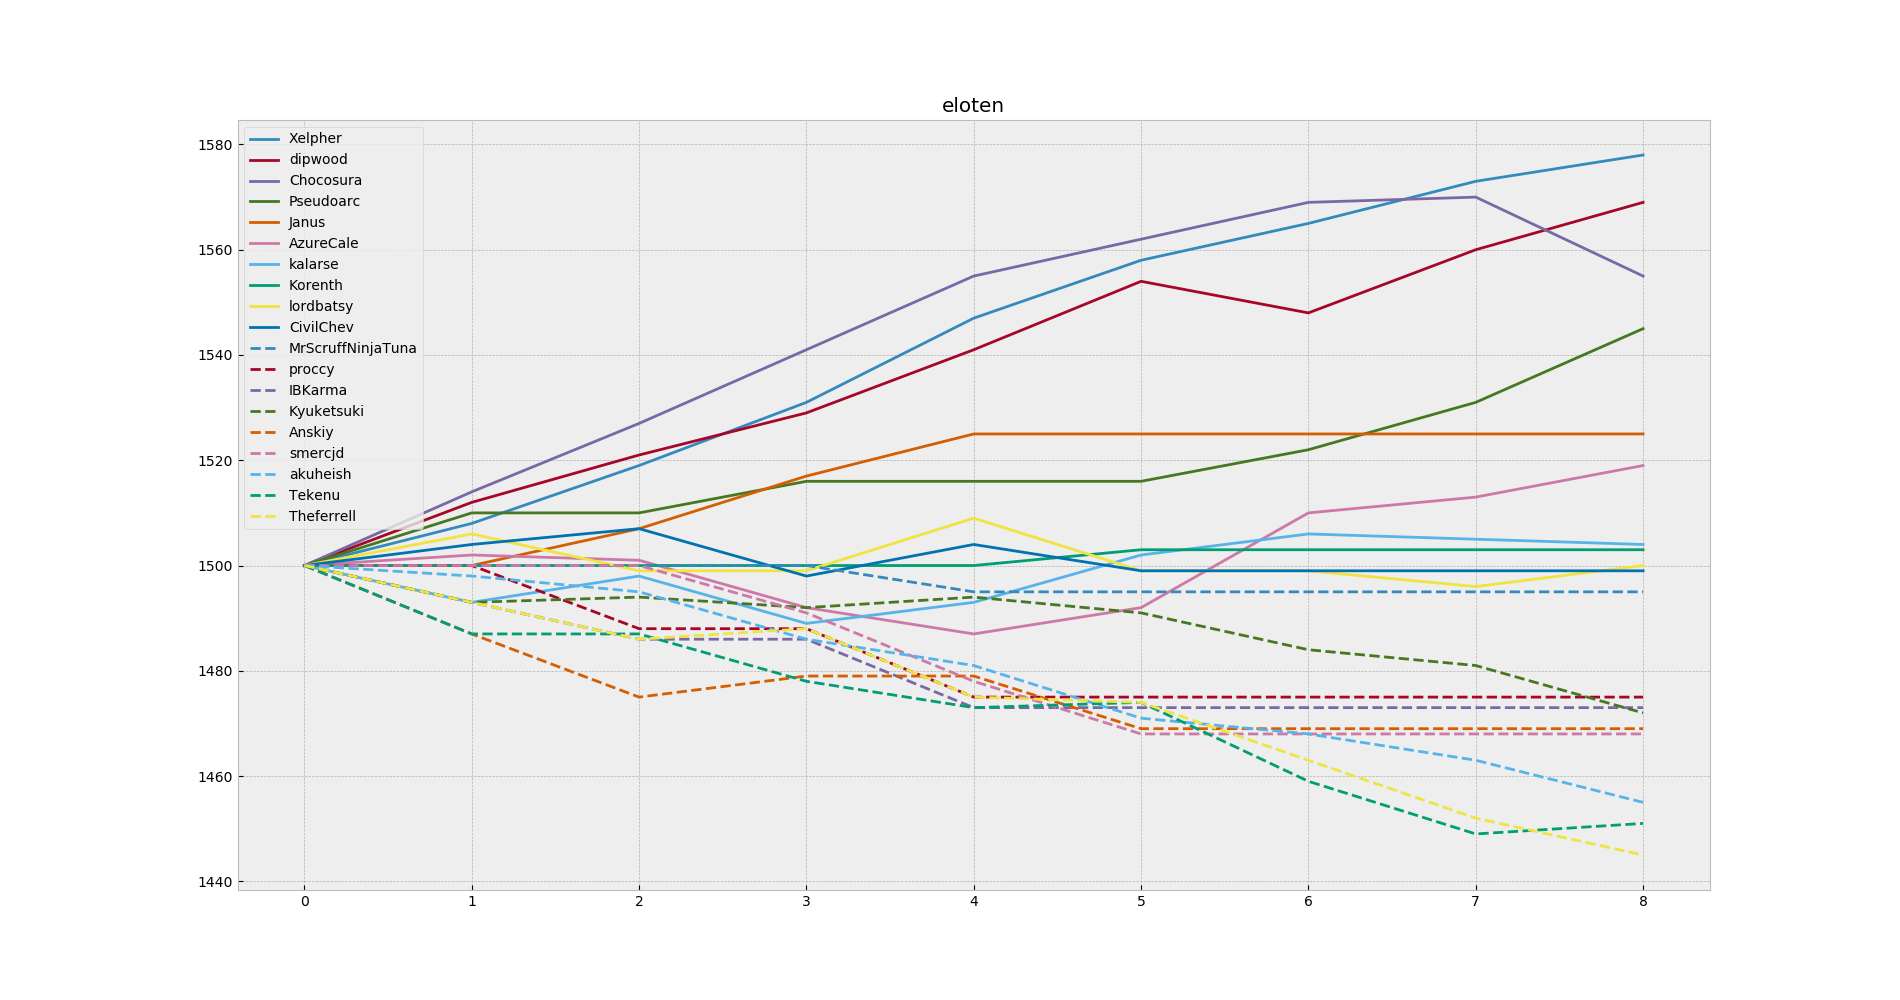
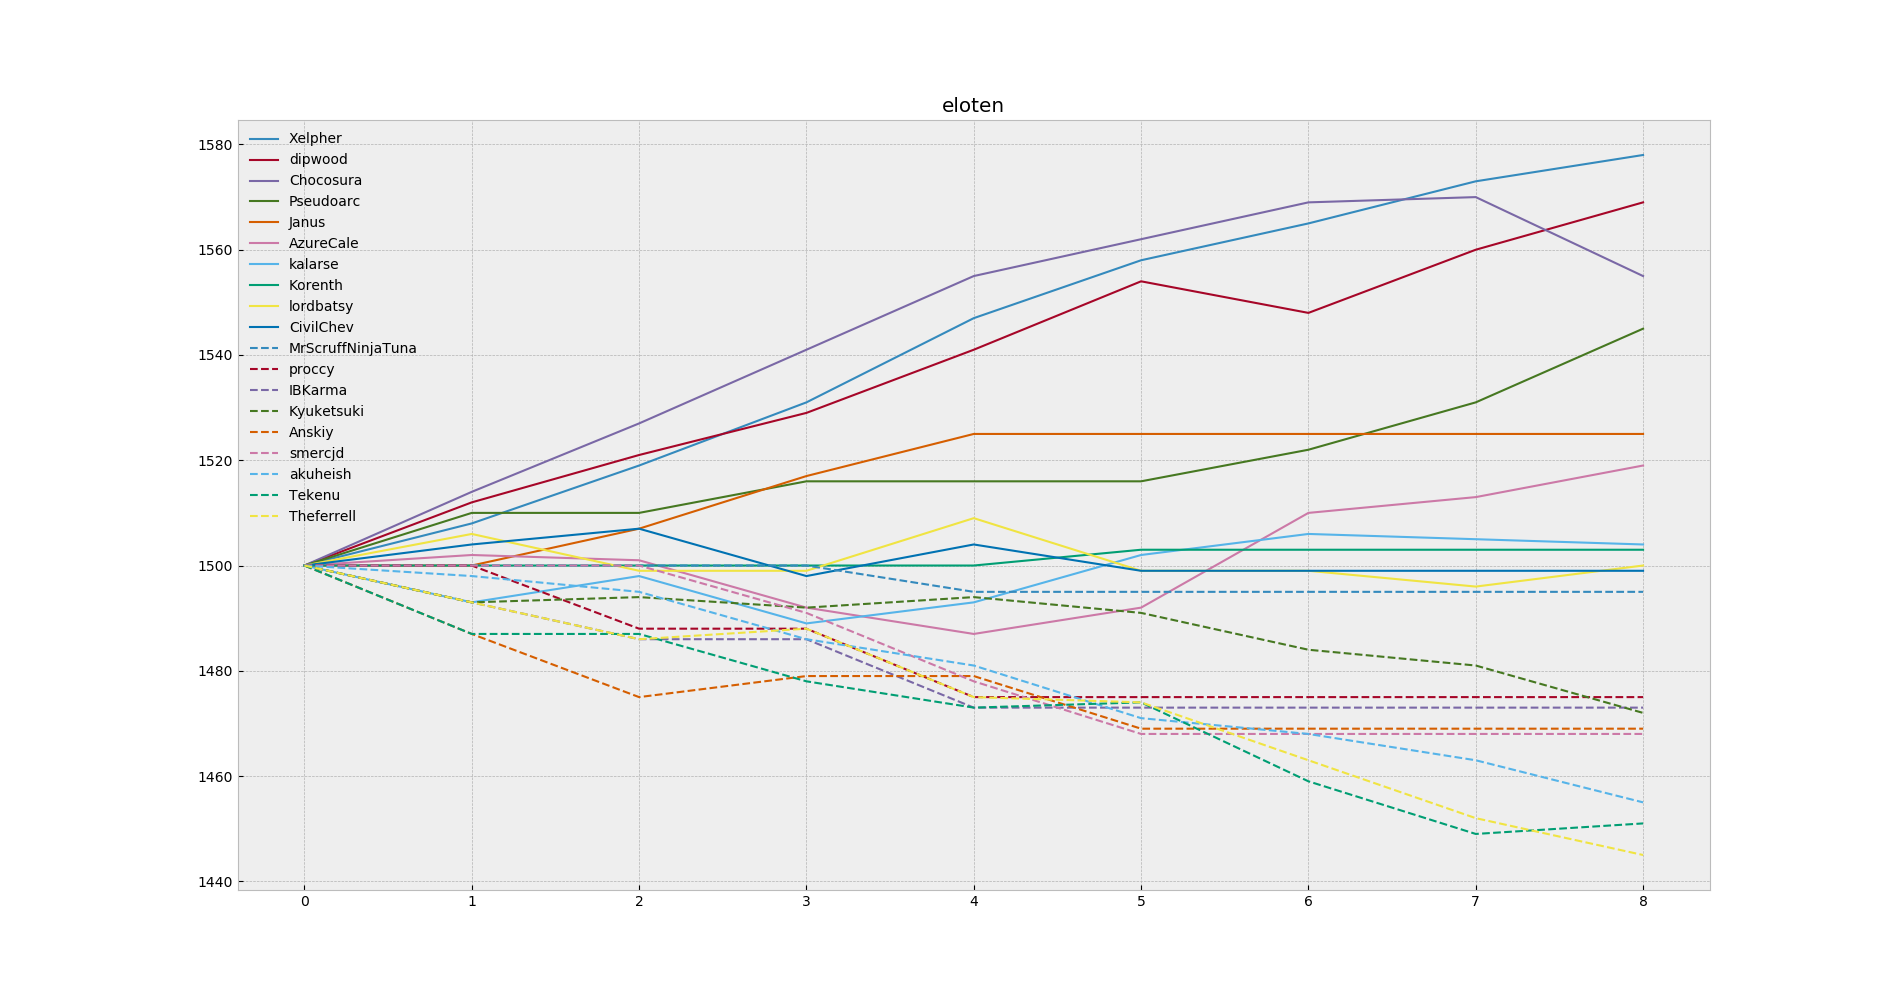
Change images to linewidth of 1.5

diff --git a/graph.py b/graph.py
@@ -10,7 +10,7 @@ def graph(races, ranks, startval=0, title="Ranks", exclude=[], output_file=None)
     for player in [x[1] for x in util.byscore(ranks[-1]) if x[1] not in exclude]:
         x = range(len(ranks))
         y = [r.get(player, startval) for r in ranks]
-        plt.plot(x, y, label=player)
+        plt.plot(x, y, label=player, lw=1.5)
     plt.legend(loc='best', frameon=False)
     plt.title(title)
     if output_file is None:
